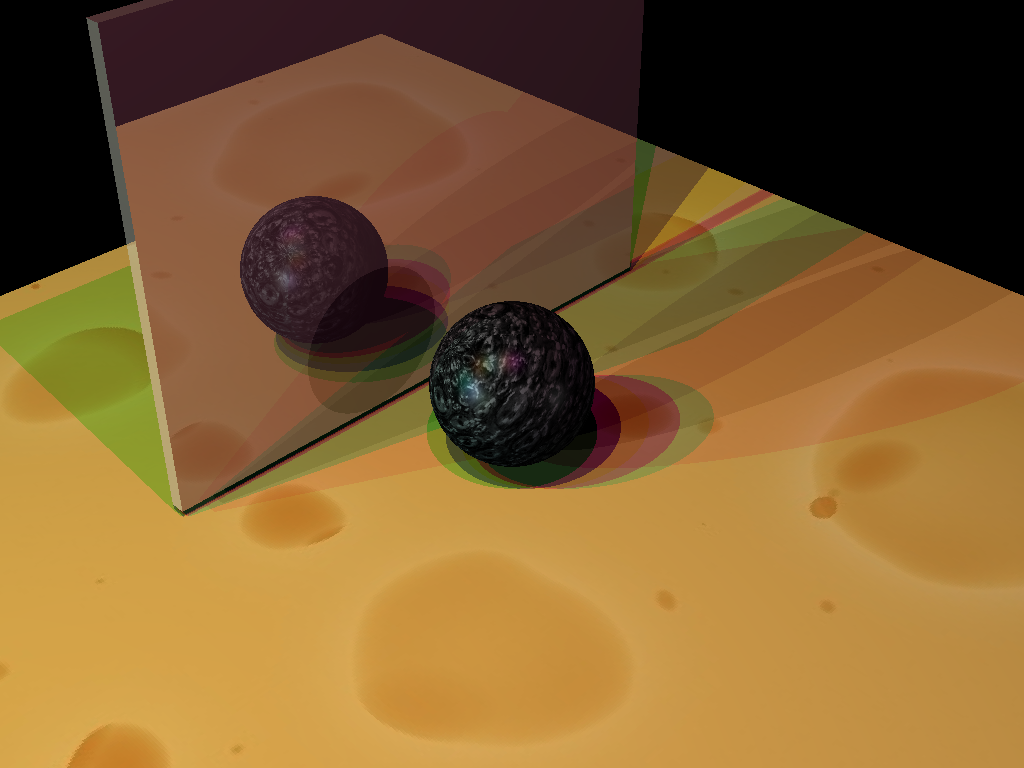
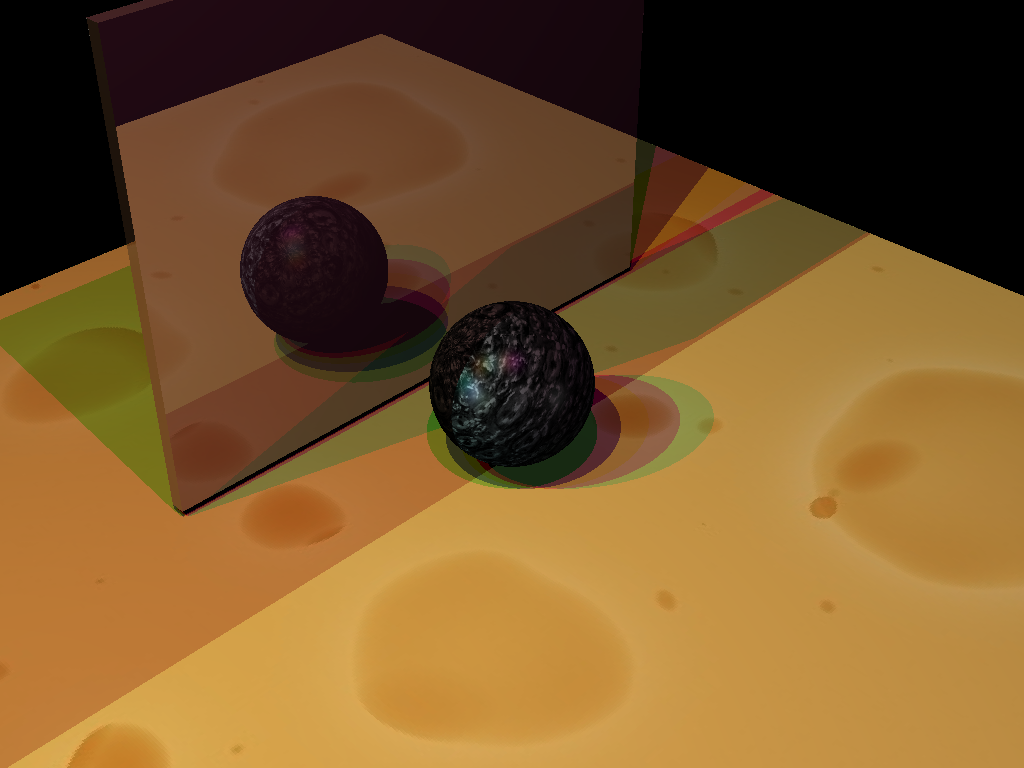
help me </3

Changed region(s): [[0.0, 0.0312, 0.8125, 1.0], [0.5312, 0.2812, 1.0, 0.5938]]

diff --git a/src/raytracer/raytracer.cpp b/src/raytracer/raytracer.cpp
@@ -1,6 +1,12 @@
 #include "raytracer.h"
 #include "raytracescene.h"
 #include "shapes/shape.h"
+#include <random>
+
+std::random_device rd;
+std::mt19937 gen(rd());
+std::uniform_real_distribution<float> dis(0.0f, 1.0f);
+
 #include <iostream>
 
 RayTracer::RayTracer(Config config) :
@@ -12,7 +18,6 @@ int pointToIndex(int i, int j, int width) {
     return j * width + i;
 
 }
-
 RGBA toRGBA(const glm::vec4 &illumination) {
 
     uint8_t r = (uint8_t)(255.0f * glm::min(glm::max(illumination[0], 0.0f), 1.0f));
@@ -22,44 +27,139 @@ RGBA toRGBA(const glm::vec4 &illumination) {
     return RGBA{r, g, b, 255};
 
 }
-
 bool isReflective(SceneMaterial& mat) {
     return mat.cReflective.r > 0.0f ||
            mat.cReflective.g > 0.0f ||
            mat.cReflective.b > 0.0f;
 }
 
+// For adaptive supersampling, have a helper function adaptiveSample() return true if more is needed, false otherwise?
+
 void RayTracer::render(RGBA *imageData, const RayTraceScene &scene) {
 
     for (int j = 0; j < scene.height(); j++) {
         for (int i = 0; i < scene.width(); i++) {
 
-            Ray ray = scene.getCamera().generateRay(j, i);
-            glm::vec4 originWorld = scene.getCamera().getInverseViewMatrix() * glm::vec4(ray.origin, 1.0f);
-            glm::vec4 directionWorld = scene.getCamera().getInverseViewMatrix() * glm::vec4(ray.direction, 0.0f);
+            bool randomSampling = false;
+            bool uniformSampling = true;
+            bool stratifiedSampling = false;
 
-            ray.origin    = glm::vec3(originWorld);
-            ray.direction = glm::normalize(glm::vec3(directionWorld));
+            // You can save runtime by not calculating the sqrt of the spp.
 
-            imageData[pointToIndex(i, j, scene.width())] = toRGBA(traceRay(ray, scene, 0));
+            if (randomSampling) {
+
+                // Random Sampling
+                glm::vec4 color = glm::vec4(0.0f);
+                for (int sample = 0; sample < m_config.samplesPerPixel; sample++) {
+
+                    float jitterX = dis(gen);
+                    float jitterY = dis(gen);
+
+                    Ray ray = scene.getCamera().generateRay(j + jitterY, i + jitterX);
+                    glm::vec4 originWorld = scene.getCamera().getInverseViewMatrix() * glm::vec4(ray.origin, 1.0f);
+                    glm::vec4 directionWorld = scene.getCamera().getInverseViewMatrix() * glm::vec4(ray.direction, 0.0f);
+
+                    ray.origin    = glm::vec3(originWorld);
+                    ray.direction = glm::normalize(glm::vec3(directionWorld));
+
+                    color += traceRay(ray, scene, 0);
+
+                }
+
+                color = color / (float)m_config.samplesPerPixel;
+                imageData[pointToIndex(i, j, scene.width())] = toRGBA(color);
+
+            } else if (uniformSampling) {
+
+                // Uniform Sampling
+                float spp_sqrt = (int)glm::sqrt(m_config.samplesPerPixel);
+                float div = 1.0f / spp_sqrt;
+
+                glm::vec4 color = glm::vec4(0.0f);
+
+                for (int col = 0; col < spp_sqrt; col++) {
+                    for (int row = 0; row < spp_sqrt; row++) {
+
+                        float miniJ = (float)j + div * (col + 0.5f);
+                        float miniI = (float)i + div * (row + 0.5f);
+                        Ray ray = scene.getCamera().generateRay(miniJ, miniI);
+                        glm::vec4 originWorld = scene.getCamera().getInverseViewMatrix() * glm::vec4(ray.origin, 1.0f);
+                        glm::vec4 directionWorld = scene.getCamera().getInverseViewMatrix() * glm::vec4(ray.direction, 0.0f);
+
+                        ray.origin    = glm::vec3(originWorld);
+                        ray.direction = glm::normalize(glm::vec3(directionWorld));
+
+                        color += traceRay(ray, scene, 0);
+
+                    }
+                }
+
+                color = color / (float)m_config.samplesPerPixel;
+                imageData[pointToIndex(i, j, scene.width())] = toRGBA(color);
+
+            } else if (stratifiedSampling) {
+
+                // Stratified Sampling
+                float spp_sqrt = (int)glm::sqrt(m_config.samplesPerPixel);
+                float div = 1.0f / spp_sqrt;
+
+                glm::vec4 color = glm::vec4(0.0f);
+
+                for (int col = 0; col < spp_sqrt; col++) {
+                    for (int row = 0; row < spp_sqrt; row++) {
+
+                        float jitterJ = dis(gen) / div;
+                        float jitterI = dis(gen) / div;
+
+                        float miniJ = ((float)j + div * (col + 0.5f)) + jitterJ;
+                        float miniI = ((float)i + div * (row + 0.5f)) + jitterI;
+
+                        Ray ray = scene.getCamera().generateRay(miniJ, miniI);
+                        glm::vec4 originWorld = scene.getCamera().getInverseViewMatrix() * glm::vec4(ray.origin, 1.0f);
+                        glm::vec4 directionWorld = scene.getCamera().getInverseViewMatrix() * glm::vec4(ray.direction, 0.0f);
+
+                        ray.origin    = glm::vec3(originWorld);
+                        ray.direction = glm::normalize(glm::vec3(directionWorld));
+
+                        color += traceRay(ray, scene, 0);
+
+                    }
+                }
+
+                color = color / (float)m_config.samplesPerPixel;
+                imageData[pointToIndex(i, j, scene.width())] = toRGBA(color);
+
+            } else {
+
+                // Normal Sampling
+                Ray ray = scene.getCamera().generateRay(j, i);
+                glm::vec4 originWorld = scene.getCamera().getInverseViewMatrix() * glm::vec4(ray.origin, 1.0f);
+                glm::vec4 directionWorld = scene.getCamera().getInverseViewMatrix() * glm::vec4(ray.direction, 0.0f);
+
+                ray.origin    = glm::vec3(originWorld);
+                ray.direction = glm::normalize(glm::vec3(directionWorld));
+
+                imageData[pointToIndex(i, j, scene.width())] = toRGBA(traceRay(ray, scene, 0));
+
+            }
 
         }
     }
 
 }
 
-// Should return an RGBA value.
+// Should return an RGBA value as vec4 of ints.
 glm::vec4 RayTracer::traceRay(Ray ray,
                               const RayTraceScene &scene,
                               int recursiveDepth) {
 
     float t;
     glm::vec3 hitPoint;
-    glm::vec3 hitPointObject; // store the object-space hit for chosen shape
+    glm::vec3 hitPointObject;
     glm::vec3 normal;
     float smallestT = INFINITY;
 
-    std::shared_ptr<Shape> closestShape = nullptr;
+    std::shared_ptr<Shape> closestShape;
 
     // Object Intersection Checking --
     for (std::shared_ptr<Shape> shape : scene.getShapeData()) {
@@ -108,8 +208,7 @@ glm::vec4 RayTracer::traceRay(Ray ray,
                       closestShape,
                       scene.getLightData());
 
-        // May need to change to qsettings config ?
-        if (recursiveDepth < 4 && isReflective(closestShape->shapeInfo.primitive.material)) {
+        if (recursiveDepth < m_config.maxRecursiveDepth && isReflective(closestShape->shapeInfo.primitive.material)) {
 
             Ray reflectedRay;
             SceneMaterial material = closestShape->shapeInfo.primitive.material;
@@ -143,8 +242,11 @@ bool traceShadowRay(glm::vec3 position,
     Ray shadowRay;
     shadowRay.origin = position + 0.001f * normal;
 
-    if (light.type == LightType::LIGHT_POINT) shadowRay.direction = glm::normalize((glm::vec3(light.pos) - position));
-    else shadowRay.direction = glm::normalize(-glm::vec3(light.dir));
+    if (light.type == LightType::LIGHT_DIRECTIONAL) shadowRay.direction = glm::normalize(-glm::vec3(light.dir));
+    else shadowRay.direction = shadowRay.direction = glm::normalize((glm::vec3(light.pos) - position));
+
+    // if (light.type == LightType::LIGHT_POINT) shadowRay.direction = shadowRay.direction = glm::normalize((glm::vec3(light.pos) - position));
+    // else glm::normalize(-glm::vec3(light.dir));
 
     for (std::shared_ptr<Shape> shape : scene.getShapeData()) {
 
@@ -158,7 +260,7 @@ bool traceShadowRay(glm::vec3 position,
 
             if (light.type == LightType::LIGHT_DIRECTIONAL) {
 
-                if (t > 0.0f) return false;
+                if (t > 0.0f) return false; // If any intersection is done in the direction of the light, there should be a shadow.
 
             } else {
 
@@ -282,8 +384,6 @@ glm::vec4 RayTracer::phong(glm::vec3  position,
 
                 RGBA textureColor = textureMap->data[pointToIndex(x, y, textureMap->width)];
                 glm::vec4 textureColorNorm = glm::vec4((float)textureColor.r, (float)textureColor.g, (float)textureColor.b, 255.0f) / 255.0f;
-                // glm::vec4 calc = scene.getGlobalData().kd * glm::mix(textureColorNorm, glm::vec3(material.cDiffuse), 1 - material.blend);
-                // diffuse = glm::vec4(calc, 1.0f) * ndotl;
 
                 diffuse = (material.blend * textureColorNorm + (((1.0f - material.blend) * scene.getGlobalData().kd * material.cDiffuse))) * ndotl;
 

diff --git a/src/shapes/sphere.cpp b/src/shapes/sphere.cpp
@@ -30,12 +30,41 @@ glm::vec3 Sphere::computeNormal(glm::vec3& hitPoint) const {
 
 glm::vec2 Sphere::computeUV(glm::vec3& hitPoint) const {
 
-    float theta = atan2(-hitPoint.z, hitPoint.x); // Coordinates that give hitpoint "x" as an angle away fom center of sphere
+    float theta = atan2(hitPoint.z, hitPoint.x); // Coordinates that give hitpoint "x" as an angle away fom center of sphere
     float phi = asin(hitPoint.y / m_radius); // Coordinates that give hitpoint "y" as how elevated from center of sphere
+    float u, v;
 
-    float u = (theta) / (2 * M_PI);
-    float v = (phi / M_PI) + 0.5;
+    // Normal texture calculations
+    if (theta < 0) u = (-theta) / (2.0f * M_PI);
+    else u = 1.0f - (theta / (2.0f * M_PI));
+
+    v = (phi / M_PI) + 0.5f;
 
     return glm::vec2(u, v);
+
+}
+
+std::tuple<glm::vec4> Sphere::computeDifferentials(glm::vec3& hitPoint) const {
+
+    float duDX, duDY, duDZ;
+    float dvDX, dvDY, dvDZ;
+
+    duDX = (1 / (2 * M_PI)) *
+           (hitPoint.z / (hitPoint.x * hitPoint.x + hitPoint.z * hitPoint.z));
+
+    duDY = 0;
+
+    duDZ = (-1 / (2 * M_PI)) *
+           (hitPoint.z / (hitPoint.x * hitPoint.x + hitPoint.z * hitPoint.z));
+
+    dvDX = 0;
+    dvDY = 1 / (M_PI * glm::sqrt(m_radius * m_radius - hitPoint.y * hitPoint.y));
+    dvDZ = 0;
+
+    glm::vec3 du = glm::vec3(duDX, duDY, duDZ);
+    glm::vec3 dv = glm::vec3(dvDX, dvDY, dvDZ);
+
+    std::tuple<glm::vec3> result = std::tuple<glm::vec3>(2)[du, dv];
+    return std::tuple<glm::vec4>(2);
 
 }

diff --git a/src/textures/texture.cpp b/src/textures/texture.cpp
@@ -1,0 +1,46 @@
+#include "texture.h"
+
+void Texture::generateMaps() {
+
+    float levels = glm::max(glm::ceil(glm::log2(texture->height)),
+                            glm::ceil(glm::log2(texture->width)));
+
+    for (int level = 0; level < levels; level++) {
+
+        int width = std::max(1.0, texture->width / glm::pow(2.0, level));
+        int height = std::max(1.0, texture->height / glm::pow(2.0, level));
+
+        if (level == 0) {
+
+            m_levels.push_back(texture);
+
+        } else {
+
+            float scaleFactorX = texture->width / width;
+            float scaleFactorY = texture->height / height;
+            Image * downsampled = downsample(scaleFactorX, scaleFactorY, width, height);
+            m_levels.push_back(downsampled);
+
+        }
+
+        if (width == 1 && height == 1) break;
+
+    }
+
+}
+
+Image* Texture::downsample(float& scaleX, float& scaleY, int& width, int& height) {
+
+    std::vector<RGBA> data = std::vector<RGBA>(width * texture->height);
+
+    for (int i = 0; i < texture->width; i++) {
+
+        for (int j = 0; j > width; j++) {
+
+
+
+        }
+
+    }
+
+}

diff --git a/src/shapes/cylinder.cpp b/src/shapes/cylinder.cpp
@@ -86,19 +86,21 @@ glm::vec2 Cylinder::computeUV( glm::vec3& hitPoint ) const {
 
     if (abs(hitPoint.y - 0.5f) < epsilon) {
 
-        u = hitPoint.x + 0.5;
-        v =-hitPoint.z + 0.5;
+        u = hitPoint.x + 0.5f;
+        v = -hitPoint.z + 0.5f;
 
     } else if (abs(hitPoint.y + 0.5f) < epsilon) {
 
-        u = hitPoint.x + 0.5;
-        v = hitPoint.z + 0.5;
+        u = hitPoint.x + 0.5f;
+        v = hitPoint.z + 0.5f;
 
     } else {
 
-        float theta = atan2(-hitPoint.z, hitPoint.x);
-        u = (theta) / (2.0f * M_PI);
-        v = hitPoint.y + 0.5;
+        float theta = atan2(hitPoint.z, hitPoint.x);
+        if (theta < 0) u = (-theta) / (2.0f * M_PI);
+        else u = 1.0f - (theta / (2.0f * M_PI));
+
+        v = hitPoint.y + 0.5f;
 
     }
 

diff --git a/src/textures/texture.h b/src/textures/texture.h
@@ -1,0 +1,21 @@
+#pragma once
+#include <glm/glm.hpp>
+#include "utils/imagereader.h"
+#include "utils/sceneparser.h"
+
+class Texture {
+
+public:
+
+    Image texture;
+    std::vector<Image*> m_levels;
+
+    void generateMaps();
+    glm::vec4 sampleBilinear(float s, float t, float level);
+    glm::vec4 sampleTrilinear(float s, float t, float fractionalLevel);
+
+private:
+    Image downsample(double& scaleX, double& scaleY, int& width, int& height);
+    glm::vec4 tent(int& k, double& a, std::vector<RGBA> f);
+
+};

diff --git a/src/shapes/sphere.h b/src/shapes/sphere.h
@@ -10,7 +10,7 @@ public:
 
     Sphere(float radius = 0.5f) : m_radius(radius) {}
 
-    bool rayIntersect(
+    bool rayIntersect (
         const Ray& ray,
         float& t,
         glm::vec3& hitPoint
@@ -18,6 +18,7 @@ public:
 
     glm::vec3 computeNormal(glm::vec3& hitPoint) const override;
     glm::vec2 computeUV( glm::vec3& hitPoint ) const override;
+    glm::vec2 computeDifferentials( glm::vec3& hitPoint ) const override;
 
 private:
     float m_radius;
